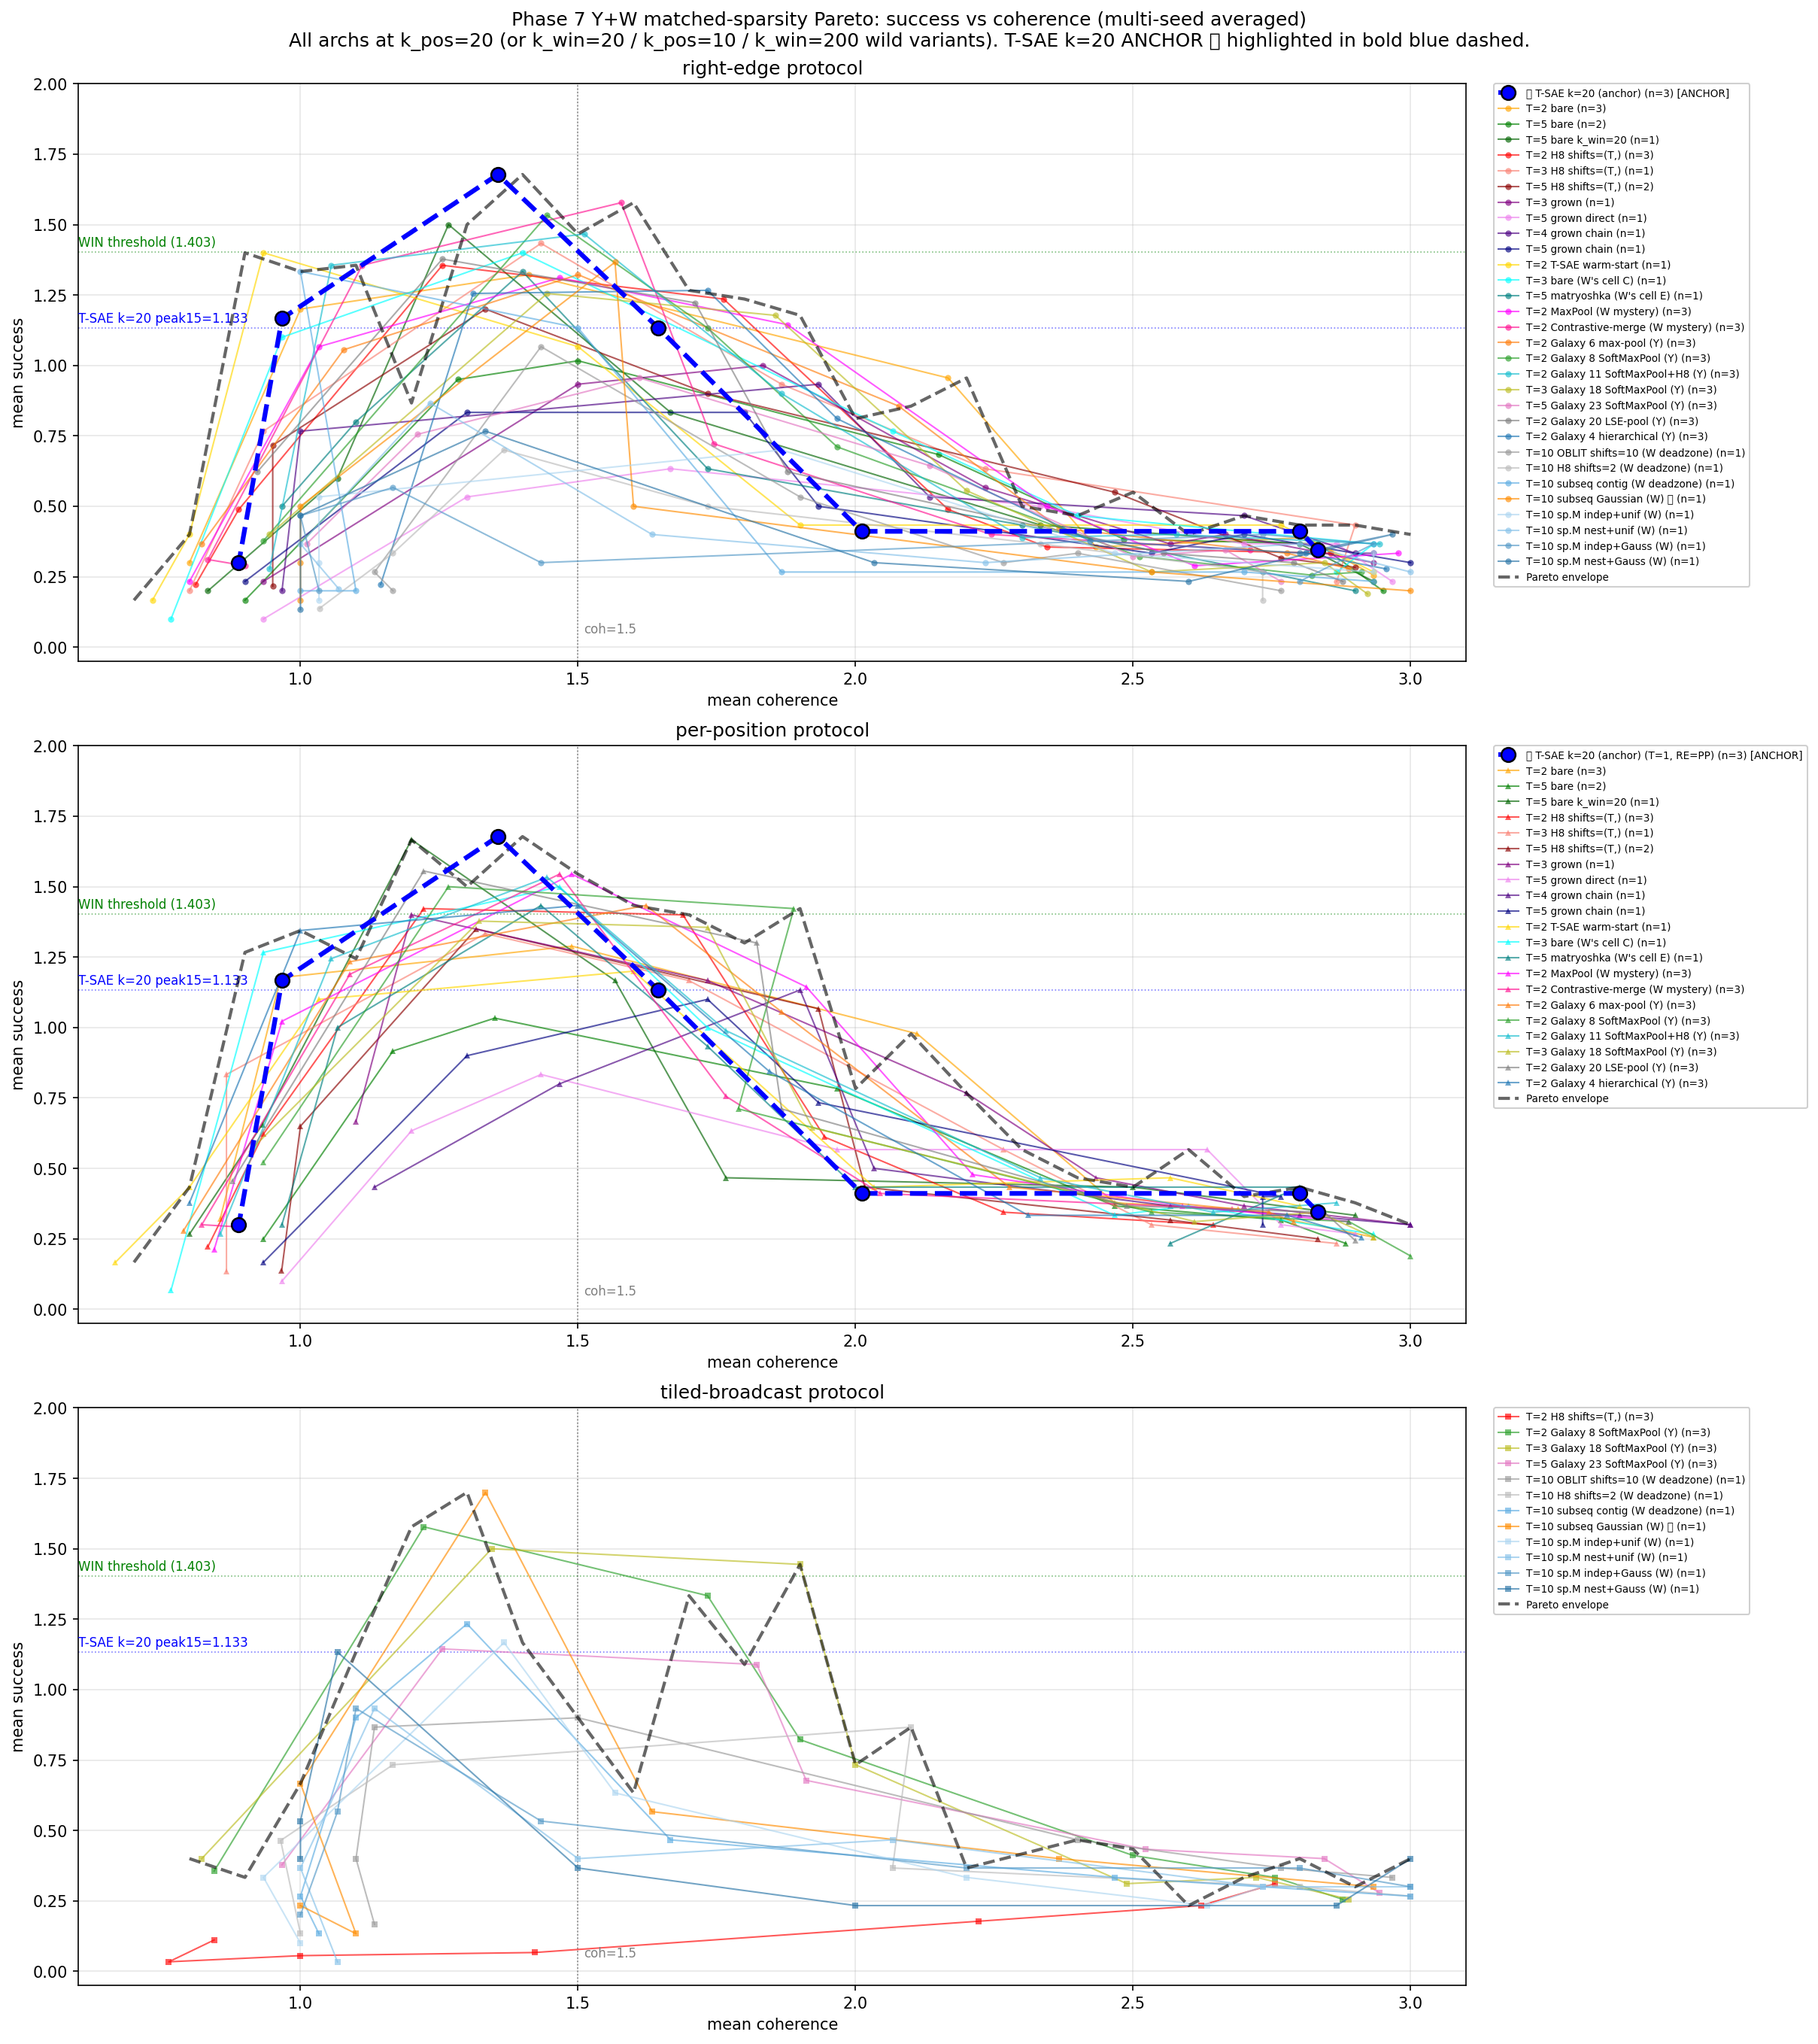
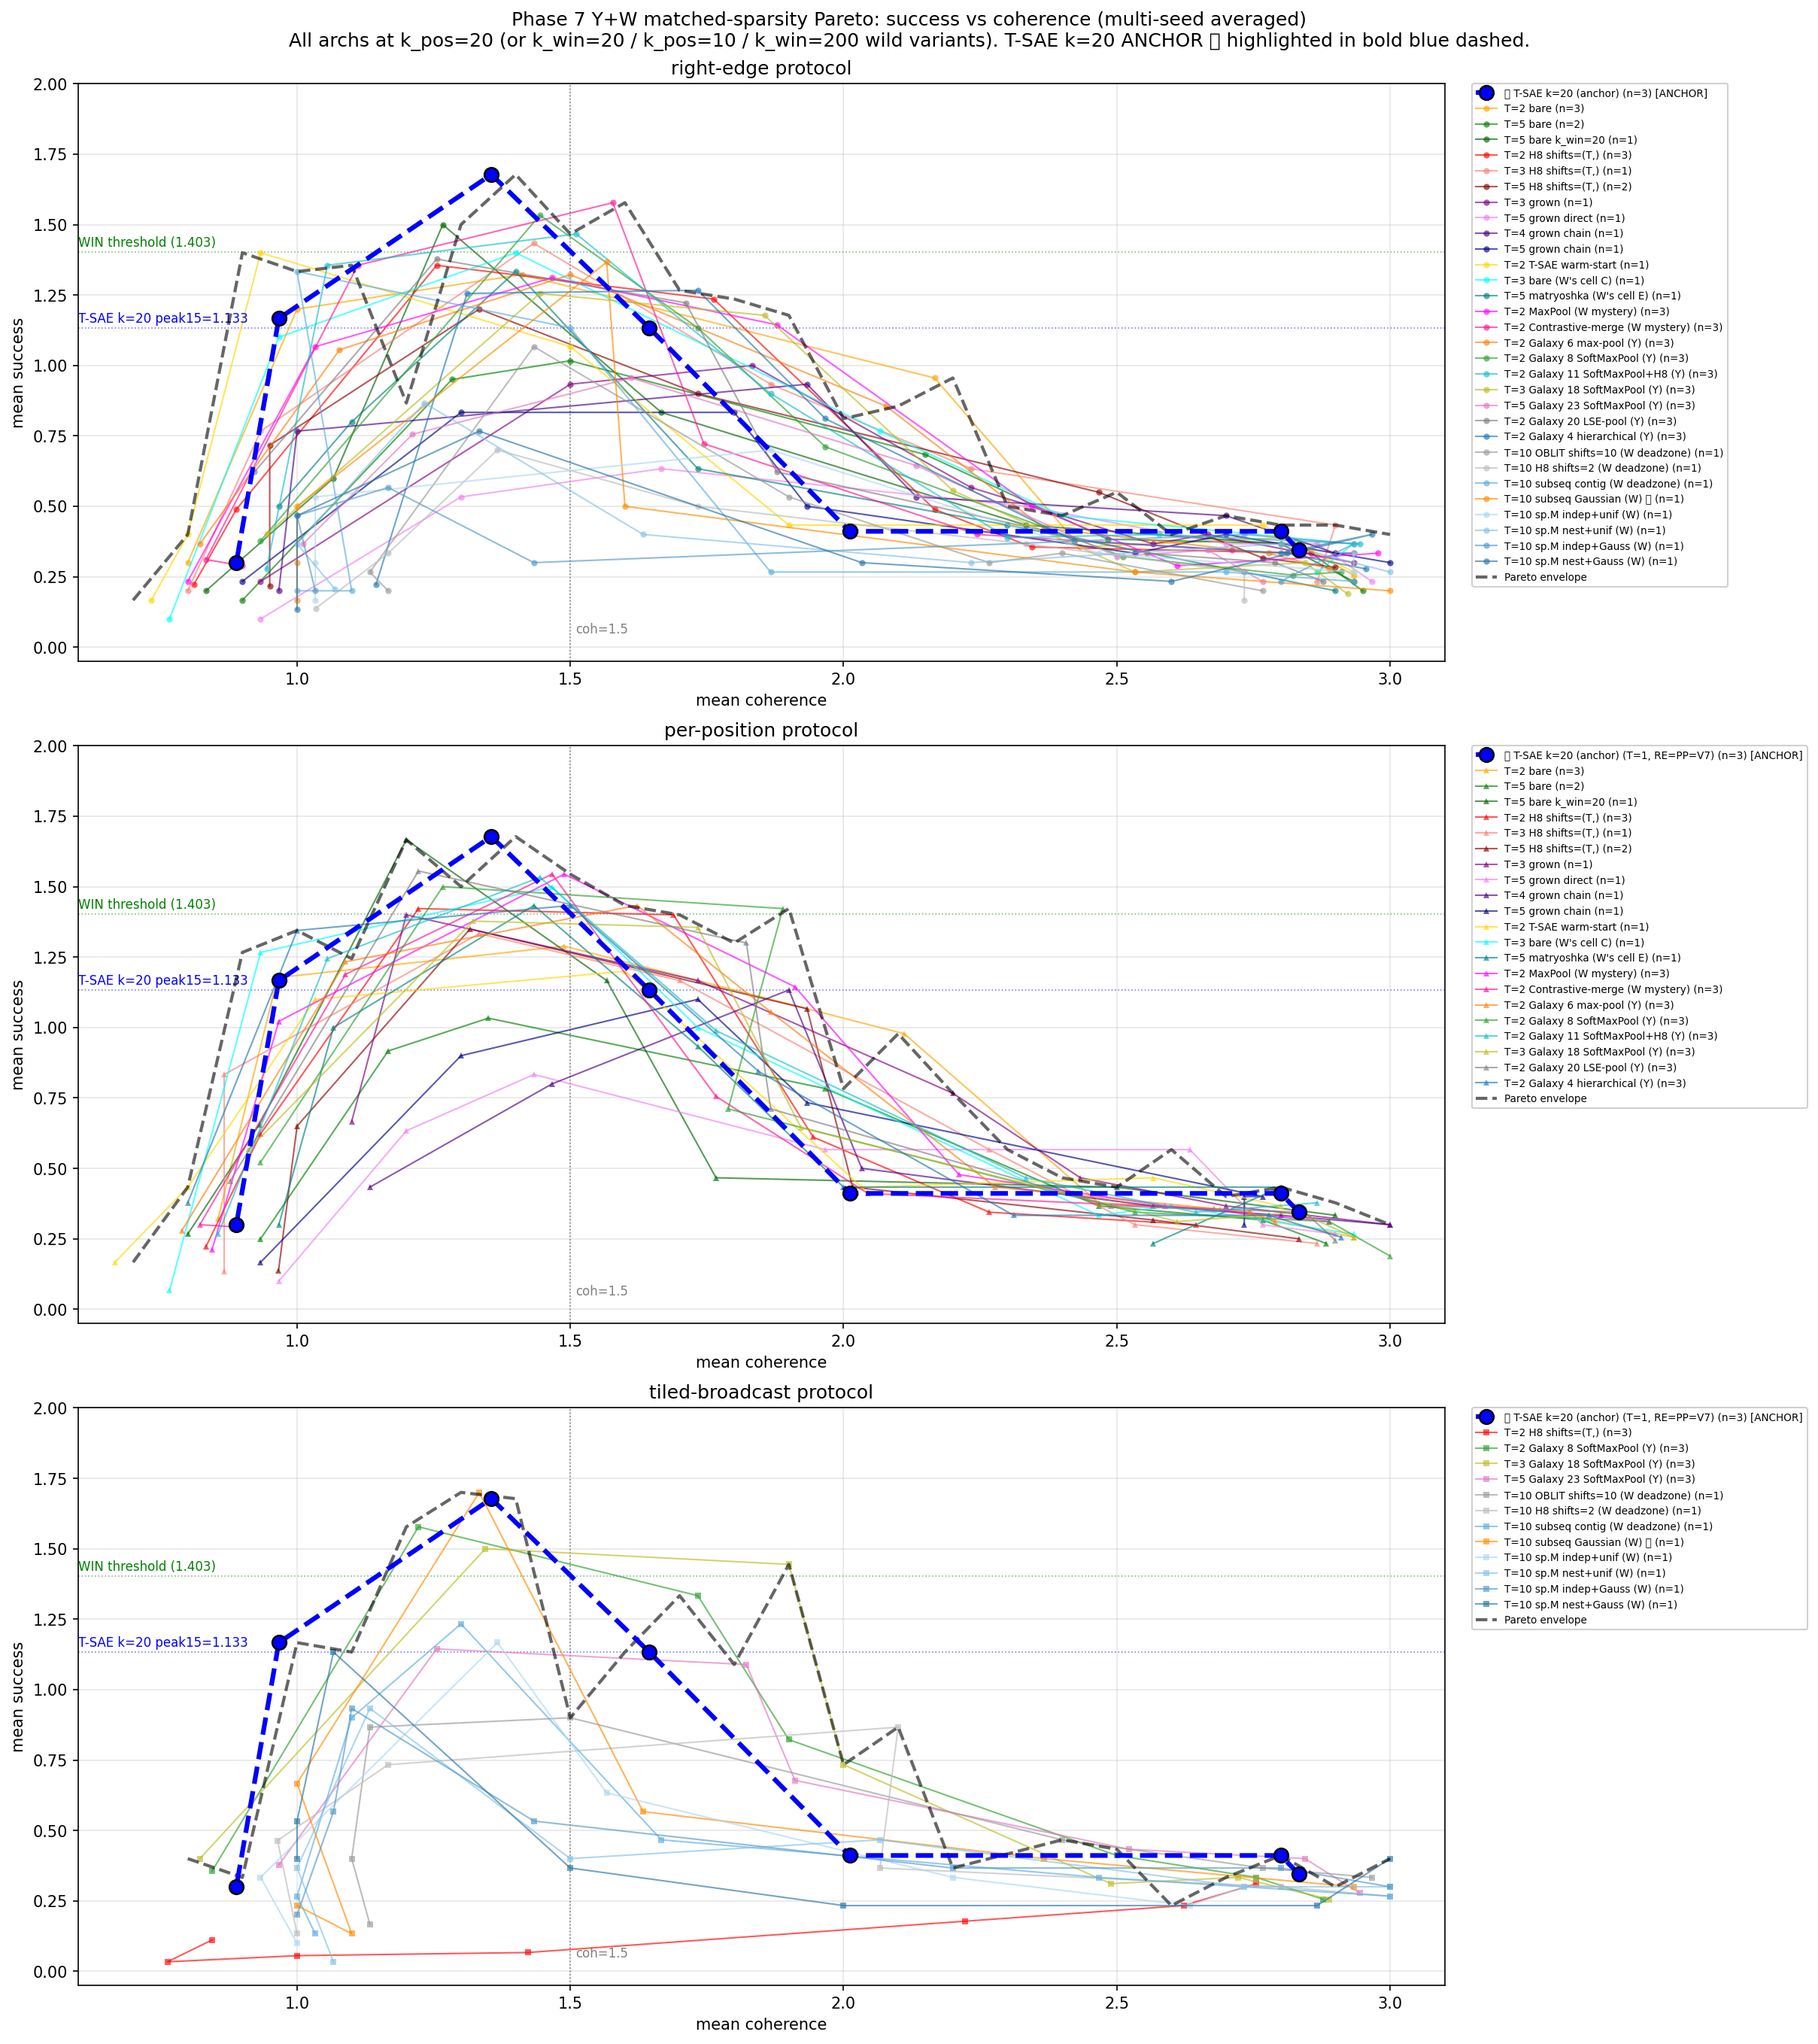
[Agent W] unified pareto: show T-SAE k=20 anchor on ALL 3 protocol panels (T=1 is trivially RE=PP=V7)

diff --git a/experiments/phase7_unification/case_studies/steering/plot_unified_pareto.py b/experiments/phase7_unification/case_studies/steering/plot_unified_pareto.py
@@ -327,19 +327,16 @@ def main():
         # Plot each arch's curve
         all_pts = []
         for (arch_id, proto), (s, succ, coh, n, label, color) in all_curves.items():
-            # T-SAE k=20 has T=1: right-edge == per-position (trivially); show on both panels
+            # T-SAE k=20 has T=1 — there's no window, so RE == PP == V7 trivially.
+            # Show its single right-edge curve on ALL three panels.
             if proto != proto_filter and arch_id != "tsae_paper_k20":
                 continue
-            # T-SAE shown on RE panel only (tiled-broadcast/per-position don't apply to T=1)
-            if arch_id == "tsae_paper_k20" and proto_filter != "right-edge":
-                if proto_filter == "per-position":
-                    pass  # show on PP panel too (T=1 trivially equivalent)
-                else:
-                    continue
+            if arch_id == "tsae_paper_k20" and proto != "right-edge":
+                continue  # only emit T-SAE's right-edge curve once per panel
             marker = {"right-edge": "o", "per-position": "^", "tiled-broadcast": "s"}.get(proto, "x")
             display_label = label
-            if arch_id == "tsae_paper_k20" and proto_filter == "per-position":
-                display_label = f"{label} (T=1, RE=PP)"
+            if arch_id == "tsae_paper_k20" and proto_filter != "right-edge":
+                display_label = f"{label} (T=1, RE=PP=V7)"
             # Highlight T-SAE k=20 anchor: thicker dashed line, brighter alpha,
             # larger markers, top zorder so it draws on top of everything else.
             is_anchor = arch_id == "tsae_paper_k20"
